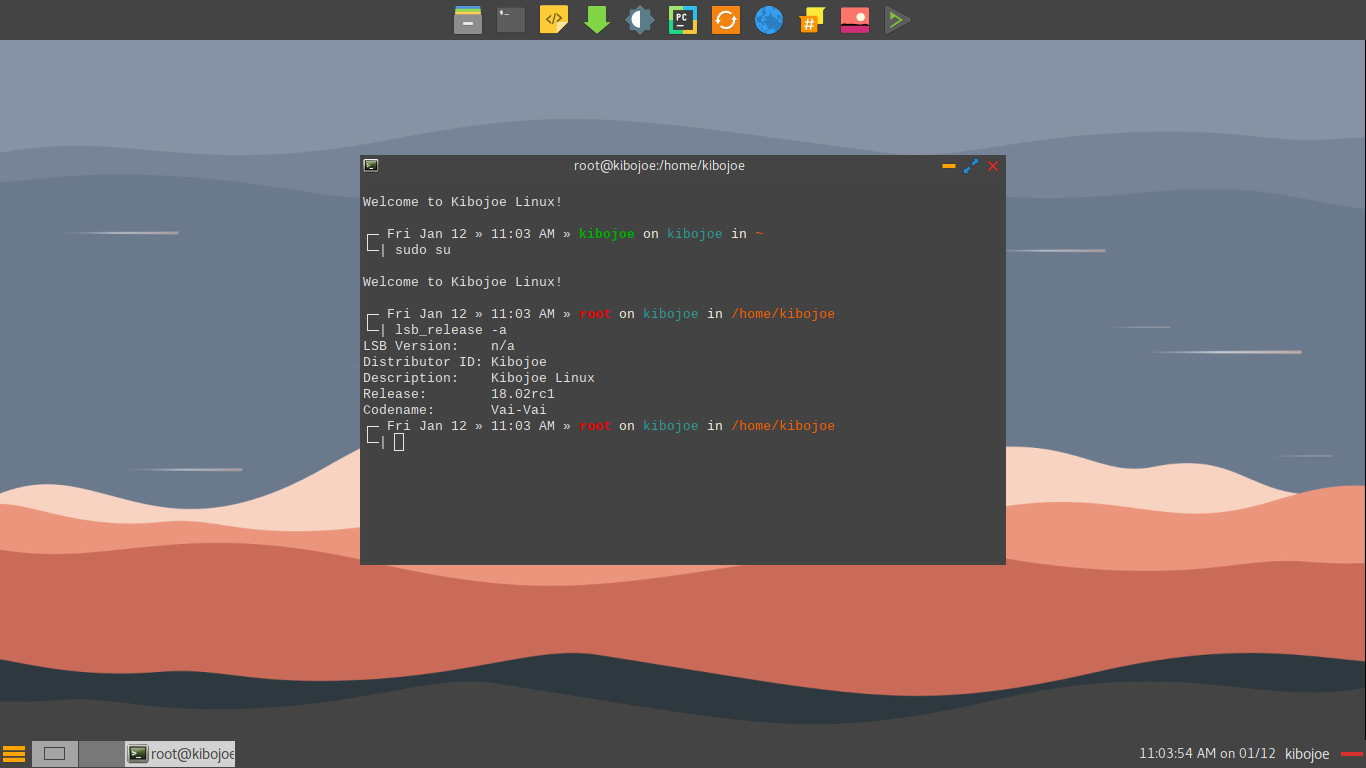
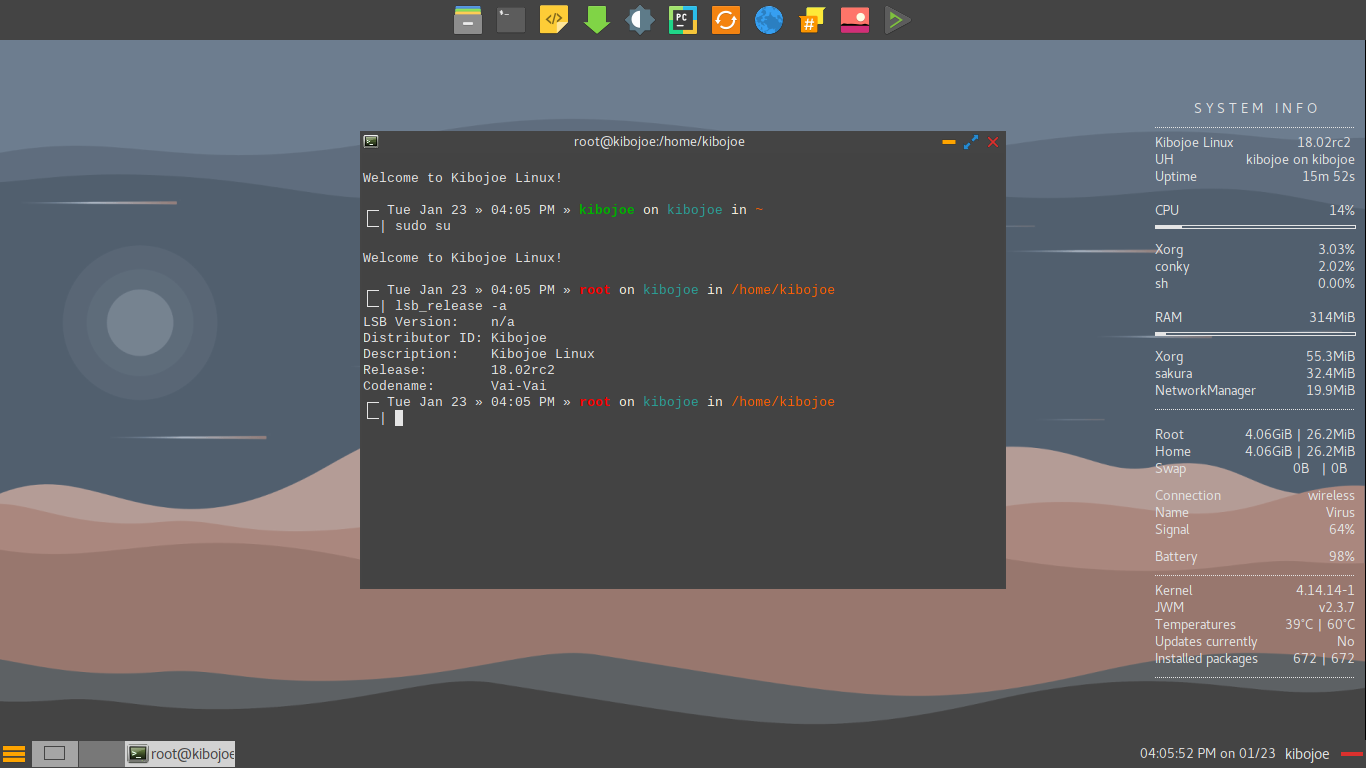
up site kibojoe 18.02rc2

diff --git a/download.md b/download.md
@@ -5,31 +5,17 @@ title: Download
 
 <h3>Kibojoe Linux download</h3>
 
-<h4>✓Change current log 18.02rc1</h4>
+<h4>✓Change current log 18.02rc2</h4>
 
-Code 12118
+Code 23118
 
-- Remove Feh,
-- Add Rofi, Light, Gsimplecal, GPicView and Nitrogen,
-- New JWM Theme SX-Dark,
-- New LXDM Theme SX-Dark-Simple,
-- New Collection Wallpapers Dunes and Moon,
-- New DockAppJWM, made with tray JWM.
-- New LeaveJWM, made with Rofi, 
-- New Window Buttons JWM Flat-SX Theme,
-- New GTK Theme Numix-SX-Dark,
-- New Icon Theme Surfn-Mint-X-Grey,
-- New Mouse Cursor Theme Bridge,
-- Using Nitrogen, a background browser and setter for X windows,
-- Using GPicView, a simple and fast image viewer for X,
-- Using Light, program to easily change brightness on backlight-controllers,
-- Using Gsimplecal, a simple and lightweight GTK calendar,
-- Using JWM 2.3.7-1,
-- Using Kernel Linux414,
-- Add option in menu JWM "Places" and "Leave",
-- General review CLI Utilities,
-- Update User Orientation Guide,
-- Packages updates and some corrections (Stable Update Manjaro 2018-01-07).
+- Fixed some errors in JWM codification (thank you jlribeiro - Manjaro Brasil),
+- Fixed using the monitor brightness keys (thank you jlribeiro - Manjaro Brasil),
+- Fixed some errors in Pacli Package Manager codification (thank you excalibur1234 - Manjaro Linux),
+- Fixed some errors notify-send and cron,
+- upnotifier script will look for updates every two hours,
+- gtk3-classic replace gtk3,
+- Packages updates and some corrections (Stable Update Manjaro 2018-01-19).
 
 <h4>✓Stable version</h4>
 <table>
@@ -75,28 +61,28 @@ Code 12118
             <th>ID</th><th>Information</th>
           </tr>
           <tr>
-            <td>Kibojoe Linux</td><td>18.02rc1</td>
+            <td>Kibojoe Linux</td><td>18.02rc2</td>
           </tr>
           <tr>
             <td>Codename</td><td>Vai-Vai</td>
           </tr>
           <tr>
-            <td>Code</td><td>12118</td>
+            <td>Code</td><td>23118</td>
           </tr>
           <tr>
             <td>Architecture</td><td>x86_64</td>
           </tr>
           <tr>
-            <td>ISO Image</td><td><a href="https://sourceforge.net/projects/kibojoe/files/18.02/Code%2012118/" target="_blank">SourceForge</a></td>
+            <td>ISO Image</td><td><a href="https://sourceforge.net/projects/kibojoe/files/18.02/Code%2023118/" target="_blank">SourceForge</a></td>
           </tr>
           <tr>
-            <td>md5sum</td><td>9c83736f6ac90426f7797d750176f8d2</td>
+            <td>md5sum</td><td>a8c2de55548eab002a3d8c80973062e4</td>
           </tr>
           <tr>
             <td>Help</td><td><a href="https://wiki.manjaro.org/index.php?title=How-to_check_an_.ISO_MD5_checksum" target="_blank">Check ISO</a> I <a href="https://wiki.manjaro.org/index.php?title=Burn_an_ISO_File" target="_blank">Burn ISO</a></td>
           </tr>
           <tr>
-            <td>Build Date</td><td>2018-01-12</td>
+            <td>Build Date</td><td>2018-01-23</td>
           </tr>
         </tbody></table>
 

diff --git a/news.md b/news.md
@@ -5,7 +5,9 @@ title: News
 
 <h3>News Kibojoe Linux, Manjaro Linux and JWM</h3>
 
-- [2018-01-12] Stable Update I Manjaro Linux -  Kernels, Microcodes, Nvidia, Firefox, Boost, Cleanup, <a href="https://manjaro.org/2018/01/12/stable-update-2018-01-12-kernels-microcodes-nvidia-firefox-boost-cleanup/" target="_blank">here</a>.
+- [2018-01-23] Kibojoe Linux 18.02rc2 is ready, <a href="http://forum.kibojoe.org/viewtopic.php?f=11&t=128&p=339#p339" target="_blank">here</a>.
+- [2018-01-19] Stable Update I Manjaro Linux - Kernels, KDE Apps & Framework, Browsers, Virtualbox, Systemd, Mesa, <a href="https://manjaro.org/2018/01/19/stable-update-2018-01-19-kernels-kde-apps-framework-browsers-virtualbox-systemd-mesa/" target="_blank">here</a>.
+- [2018-01-12] Stable Update I Manjaro Linux - Kernels, Microcodes, Nvidia, Firefox, Boost, Cleanup, <a href="https://manjaro.org/2018/01/12/stable-update-2018-01-12-kernels-microcodes-nvidia-firefox-boost-cleanup/" target="_blank">here</a>.
 - [2018-01-12] Kibojoe Linux 18.02rc1 is ready, <a href="http://forum.kibojoe.org/viewtopic.php?f=11&t=115&p=290#p290" target="_blank">here</a>.
 - [2018-01-07] Stable Update I Manjaro Linux - Browsers, Nvidia, PHP, Compiz, Adapta, <a href="https://manjaro.org/2018/01/07/stable-update-2018-01-07-browsers-nvidia-php-compiz-adapta/" target="_blank">here</a>.
 - [2018-01-05] Stable Update I Manjaro Linux - Kernels, KPTI, Plasma, Calamares, TLP, <a href="https://manjaro.org/2018/01/05/stable-update-2018-01-05-kernels-kpti-plasma-calamares-tlp/" target="_blank">here</a>.
